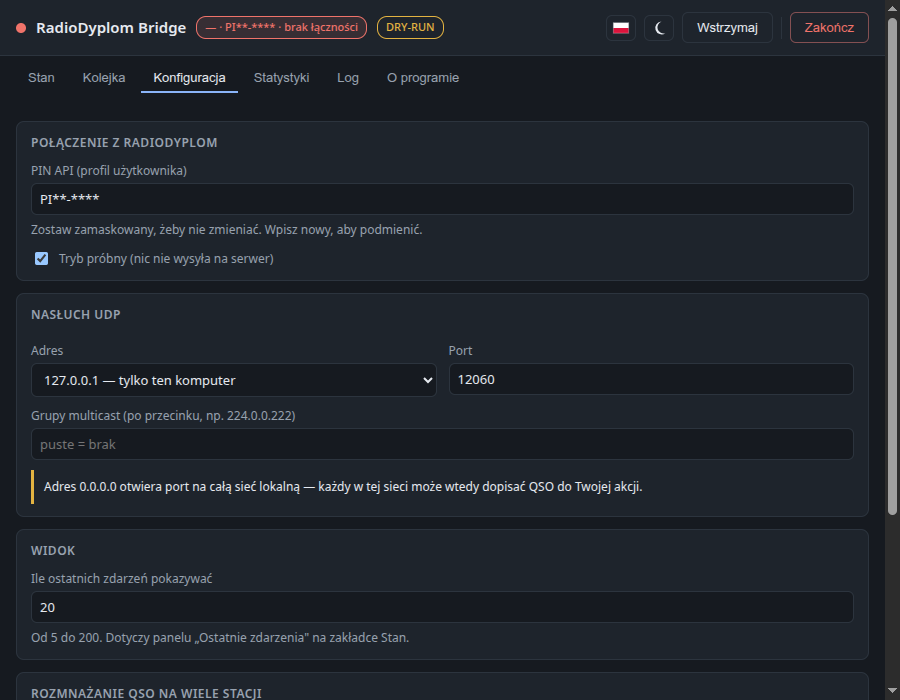
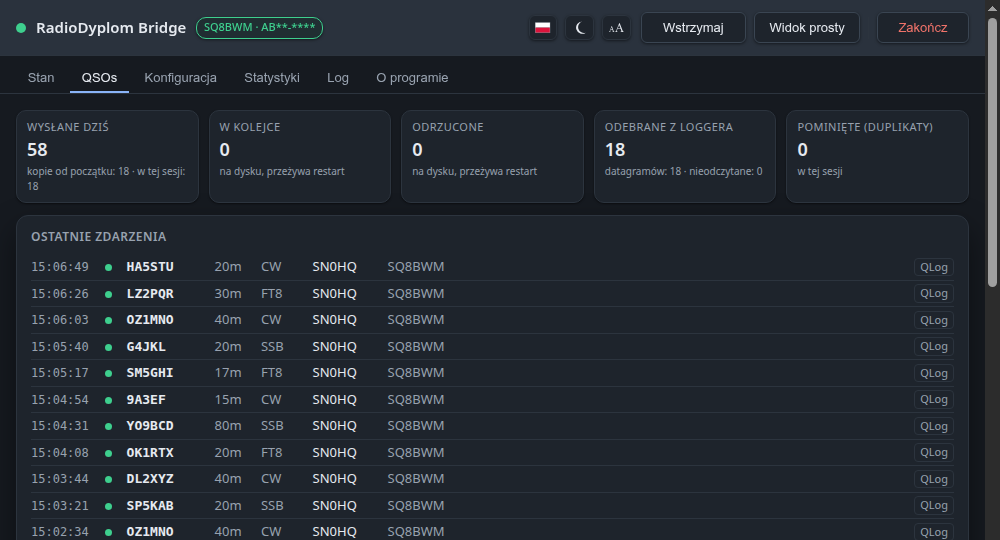
Nowe zrzuty w README: widok prosty na górze, pełny i statystyki niżej (#115)
* Nowe zrzuty w README: widok prosty na gorze, pelny i statystyki nizej

Zamowione: "chcialbym zmienic zrzut ekranu w README na wersje prosta,
w ciemnym motywie, ewentualnie nizej mozna dodac aktualne zaawansowane,
okna QSO i Statystyki".

Glowny zrzut to teraz WIDOK PROSTY w motywie ciemnym - czyli to, co widzi
osoba zaraz po instalacji. Dotad na gorze stala zakladka Stan w motywie
jasnym, sprzed widoku prostego, belki naglowka i calej reszty; nowy pokazuje
program takim, jaki jest.

Nizej dwa dalsze: zakladka QSOs (nowa sekcja "Widok pelny, gdy potrzeba
szczegolow") i odswiezone Statystyki. Oba rowniez w ciemnym, zeby strona
nie mieszala dwoch motywow.

Zrzut zakladki Stan (okno-stan.png) wypadl z README i zostal usuniety -
pokazywal uklad sprzed trzech wydan. W historii gita zostaje.

DANE NA ZRZUTACH SA WYMYSLONE: dziennik na tydzien akcji, 402 QSO, trzy
stacje, dwoch operatorow, pasma i emisje w proporcjach jak w prawdziwym
logu, znaki generowane losowo. Nie sa to niczyje QSO. Bez tego Statystyki
pokazywalyby jeden dzien i jedna stacje, czyli nic.

Lacznosci na liscie wyslane z odstepem ~23 s, bo pierwsza proba miala
wszystkie osiem w ciagu osmiu sekund i wygladala sztucznie.

* Odswiezony zrzut zakladki Konfiguracja

Takze w ciemnym, zeby README nie mieszalo motywow. Pokazuje SWIEZA
instalacje - dokladnie to, co mowi podpis: plakietka "brak PIN-u API",
wlaczony tryb probny, porty domyslne.

Pierwsze podejscie mialo port 12077, czyli moj port probny - na zrzucie dla
[…]

diff --git a/README.md b/README.md
@@ -33,7 +33,10 @@ WSJT-X albo pokrewnym programie i ma konto na radiodyplom.pl.
 prowadzi dziennika za Ciebie. Z serwera tylko pobiera listę Twoich stacji
 i aktywnych akcji; niczego tam nie zmienia poza dopisaniem QSO.
 
-![Zakładka Stan: liczniki, dane konta, adres nasłuchu](docs/obrazy/okno-stan.png)
+![Widok prosty: stan jednym zdaniem, łączności z dzisiaj, kolejka i ostatnie QSO](docs/obrazy/okno-prosty-ciemny.png)
+
+Tak wygląda **widok prosty** — to, co widzisz po instalacji. Jedno zdanie o stanie,
+dwie liczby i ostatnie łączności; reszta jest pod przyciskiem **Zaawansowane**.
 
 ---
 
@@ -199,6 +202,20 @@ Interfejs jest po **polsku i angielsku**, a motyw ma trzy stany —
 i słońcem/księżycem. Trzecia ikona, **`aA`**, zmienia wielkość tekstu (normalny →
 duży → bardzo duży), a **Ctrl +**, **Ctrl −** i **Ctrl 0** (na macOS: **Cmd +**, **Cmd −** i **Cmd 0**) powiększają całe okno.
 Oba ustawienia są zapamiętywane.
+
+---
+
+## Widok pełny, gdy potrzeba szczegółów
+
+![Zakładka QSOs: liczniki i ostatnie zdarzenia](docs/obrazy/okno-ciemny.png)
+
+Sześć zakładek: **Stan** (konto, nasłuch, na co poleci QSO), **QSOs** (liczniki
+i ostatnie zdarzenia), **Konfiguracja**, **Statystyki**, **Log** i **O programie**.
+Przełącznik w nagłówku prowadzi tam i z powrotem, a wybór jest zapamiętywany.
+
+Pierwszy kafelek pokazuje **tę samą liczbę co widok prosty** — łączności z dzisiejszą
+datą, które doszły na serwer; licznik od początku i licznik tej sesji schodzą do
+drugiej linii.
 
 ---
 
